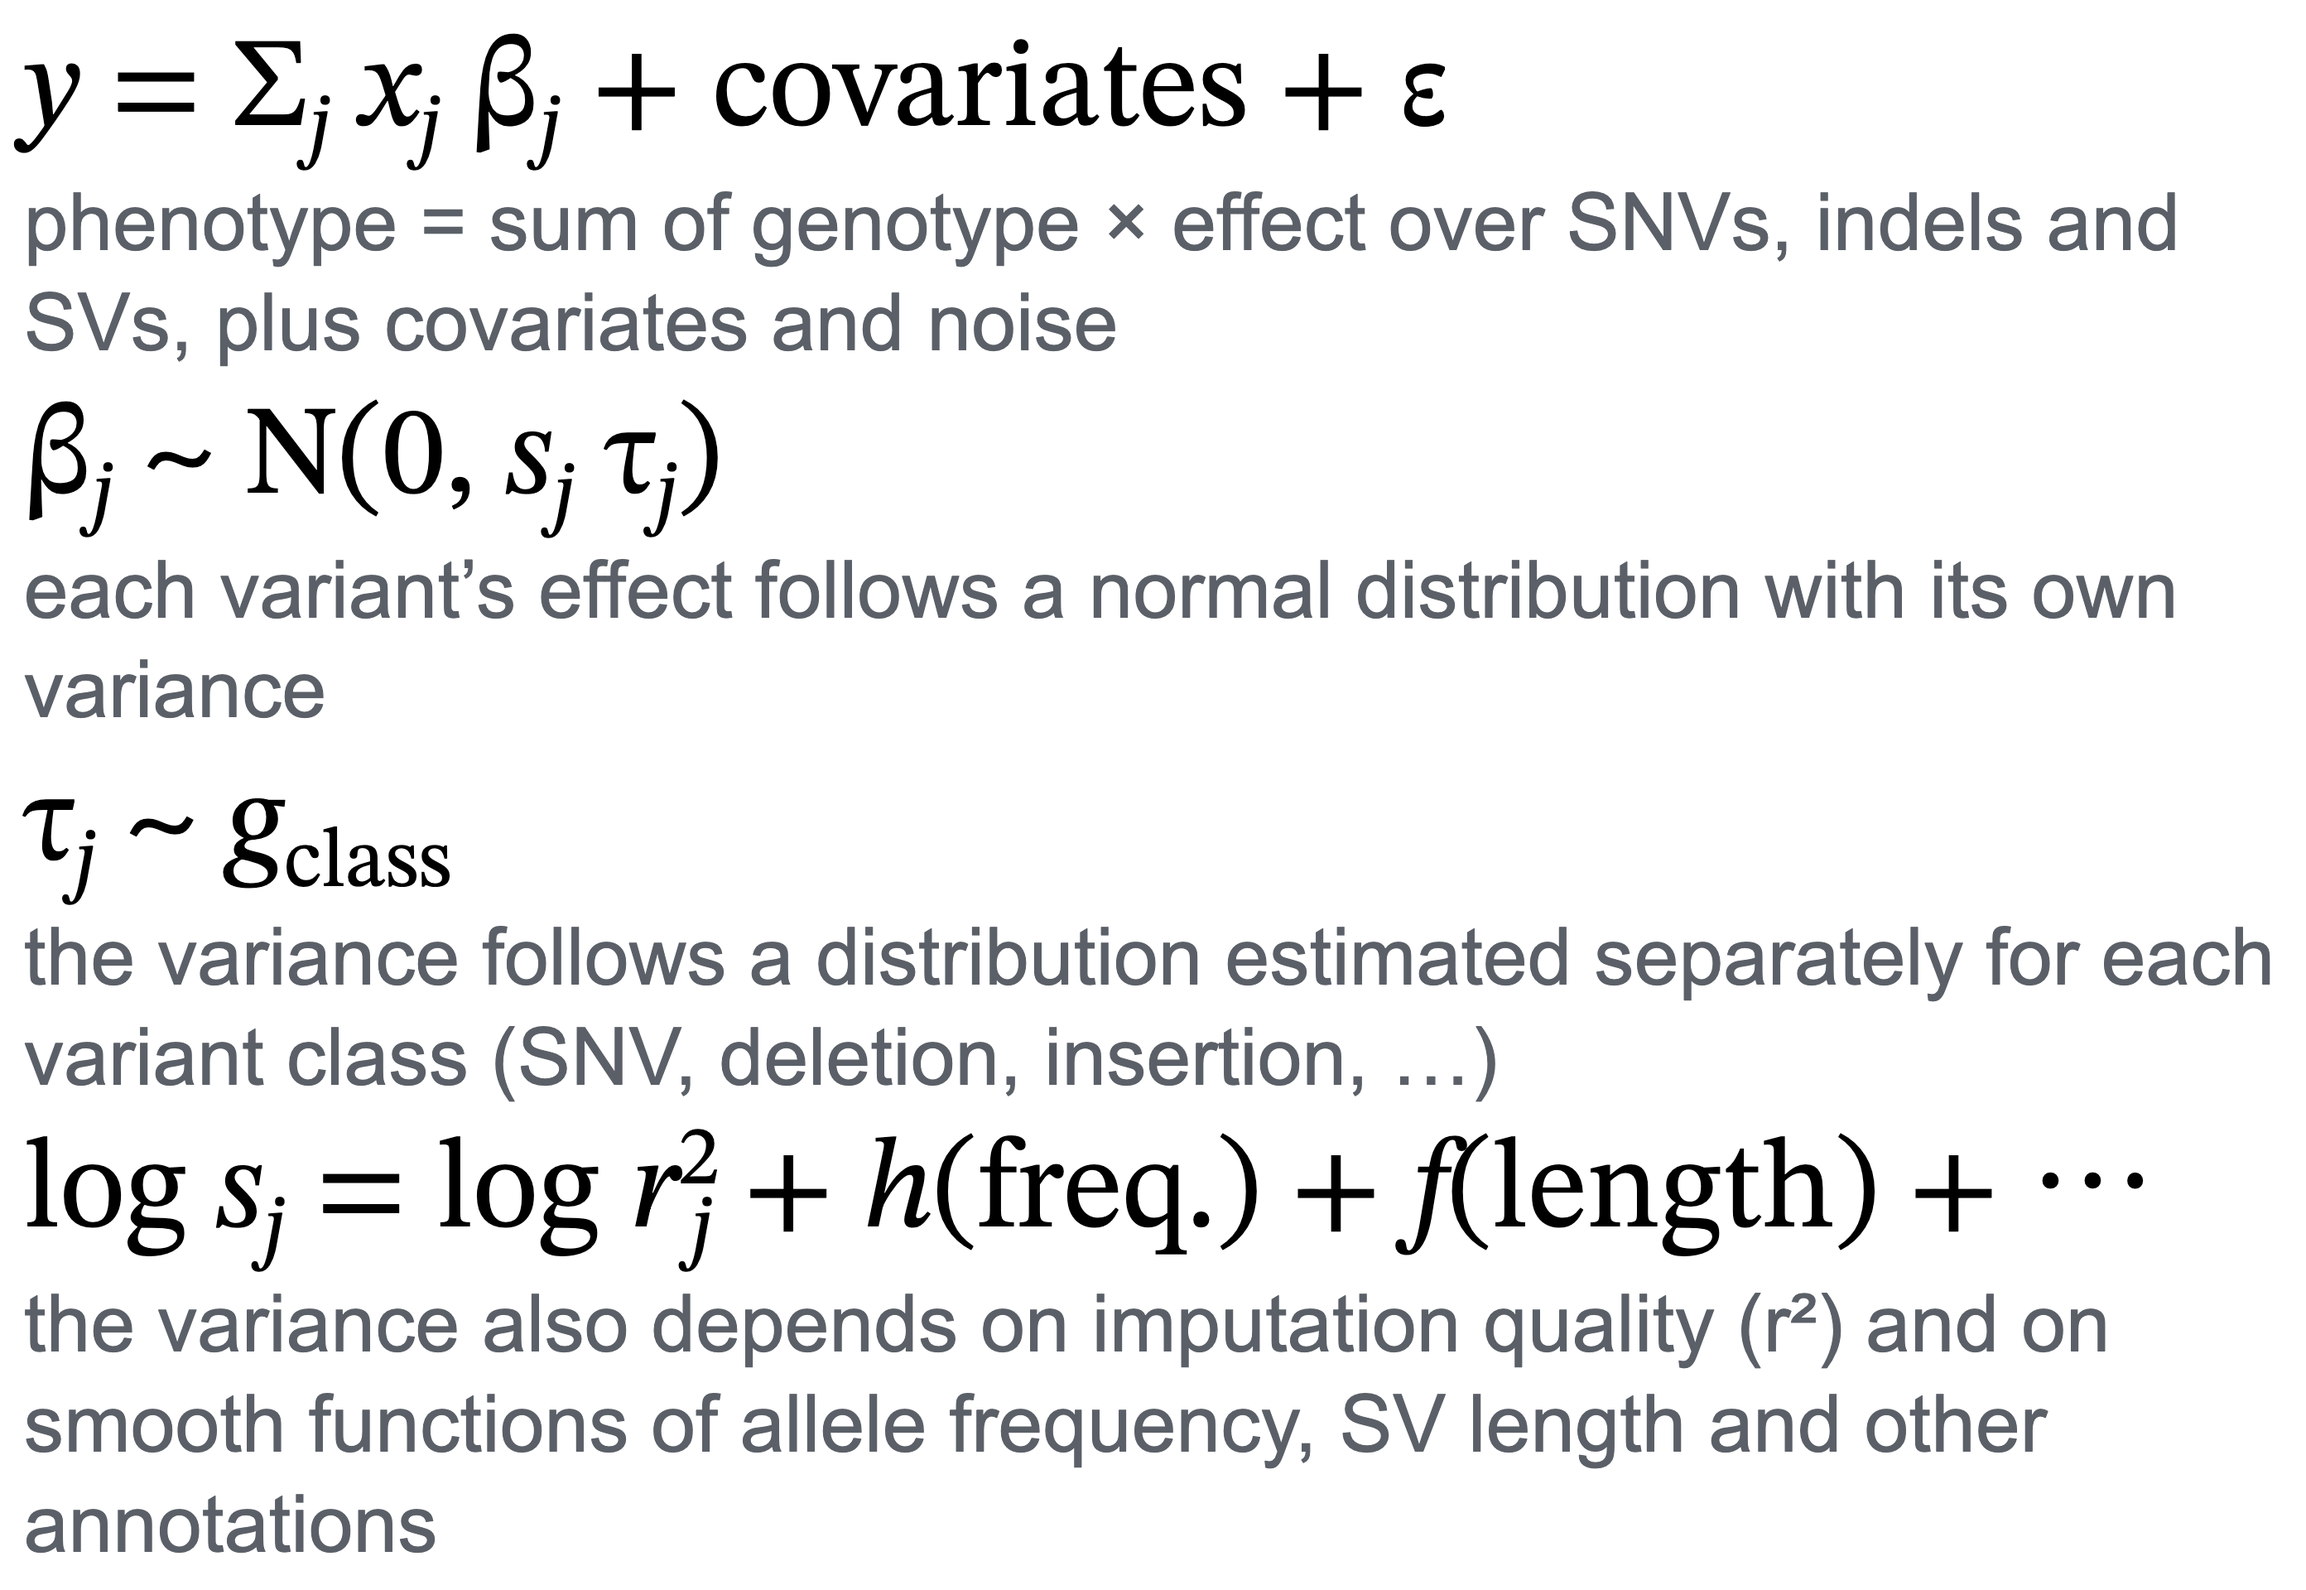
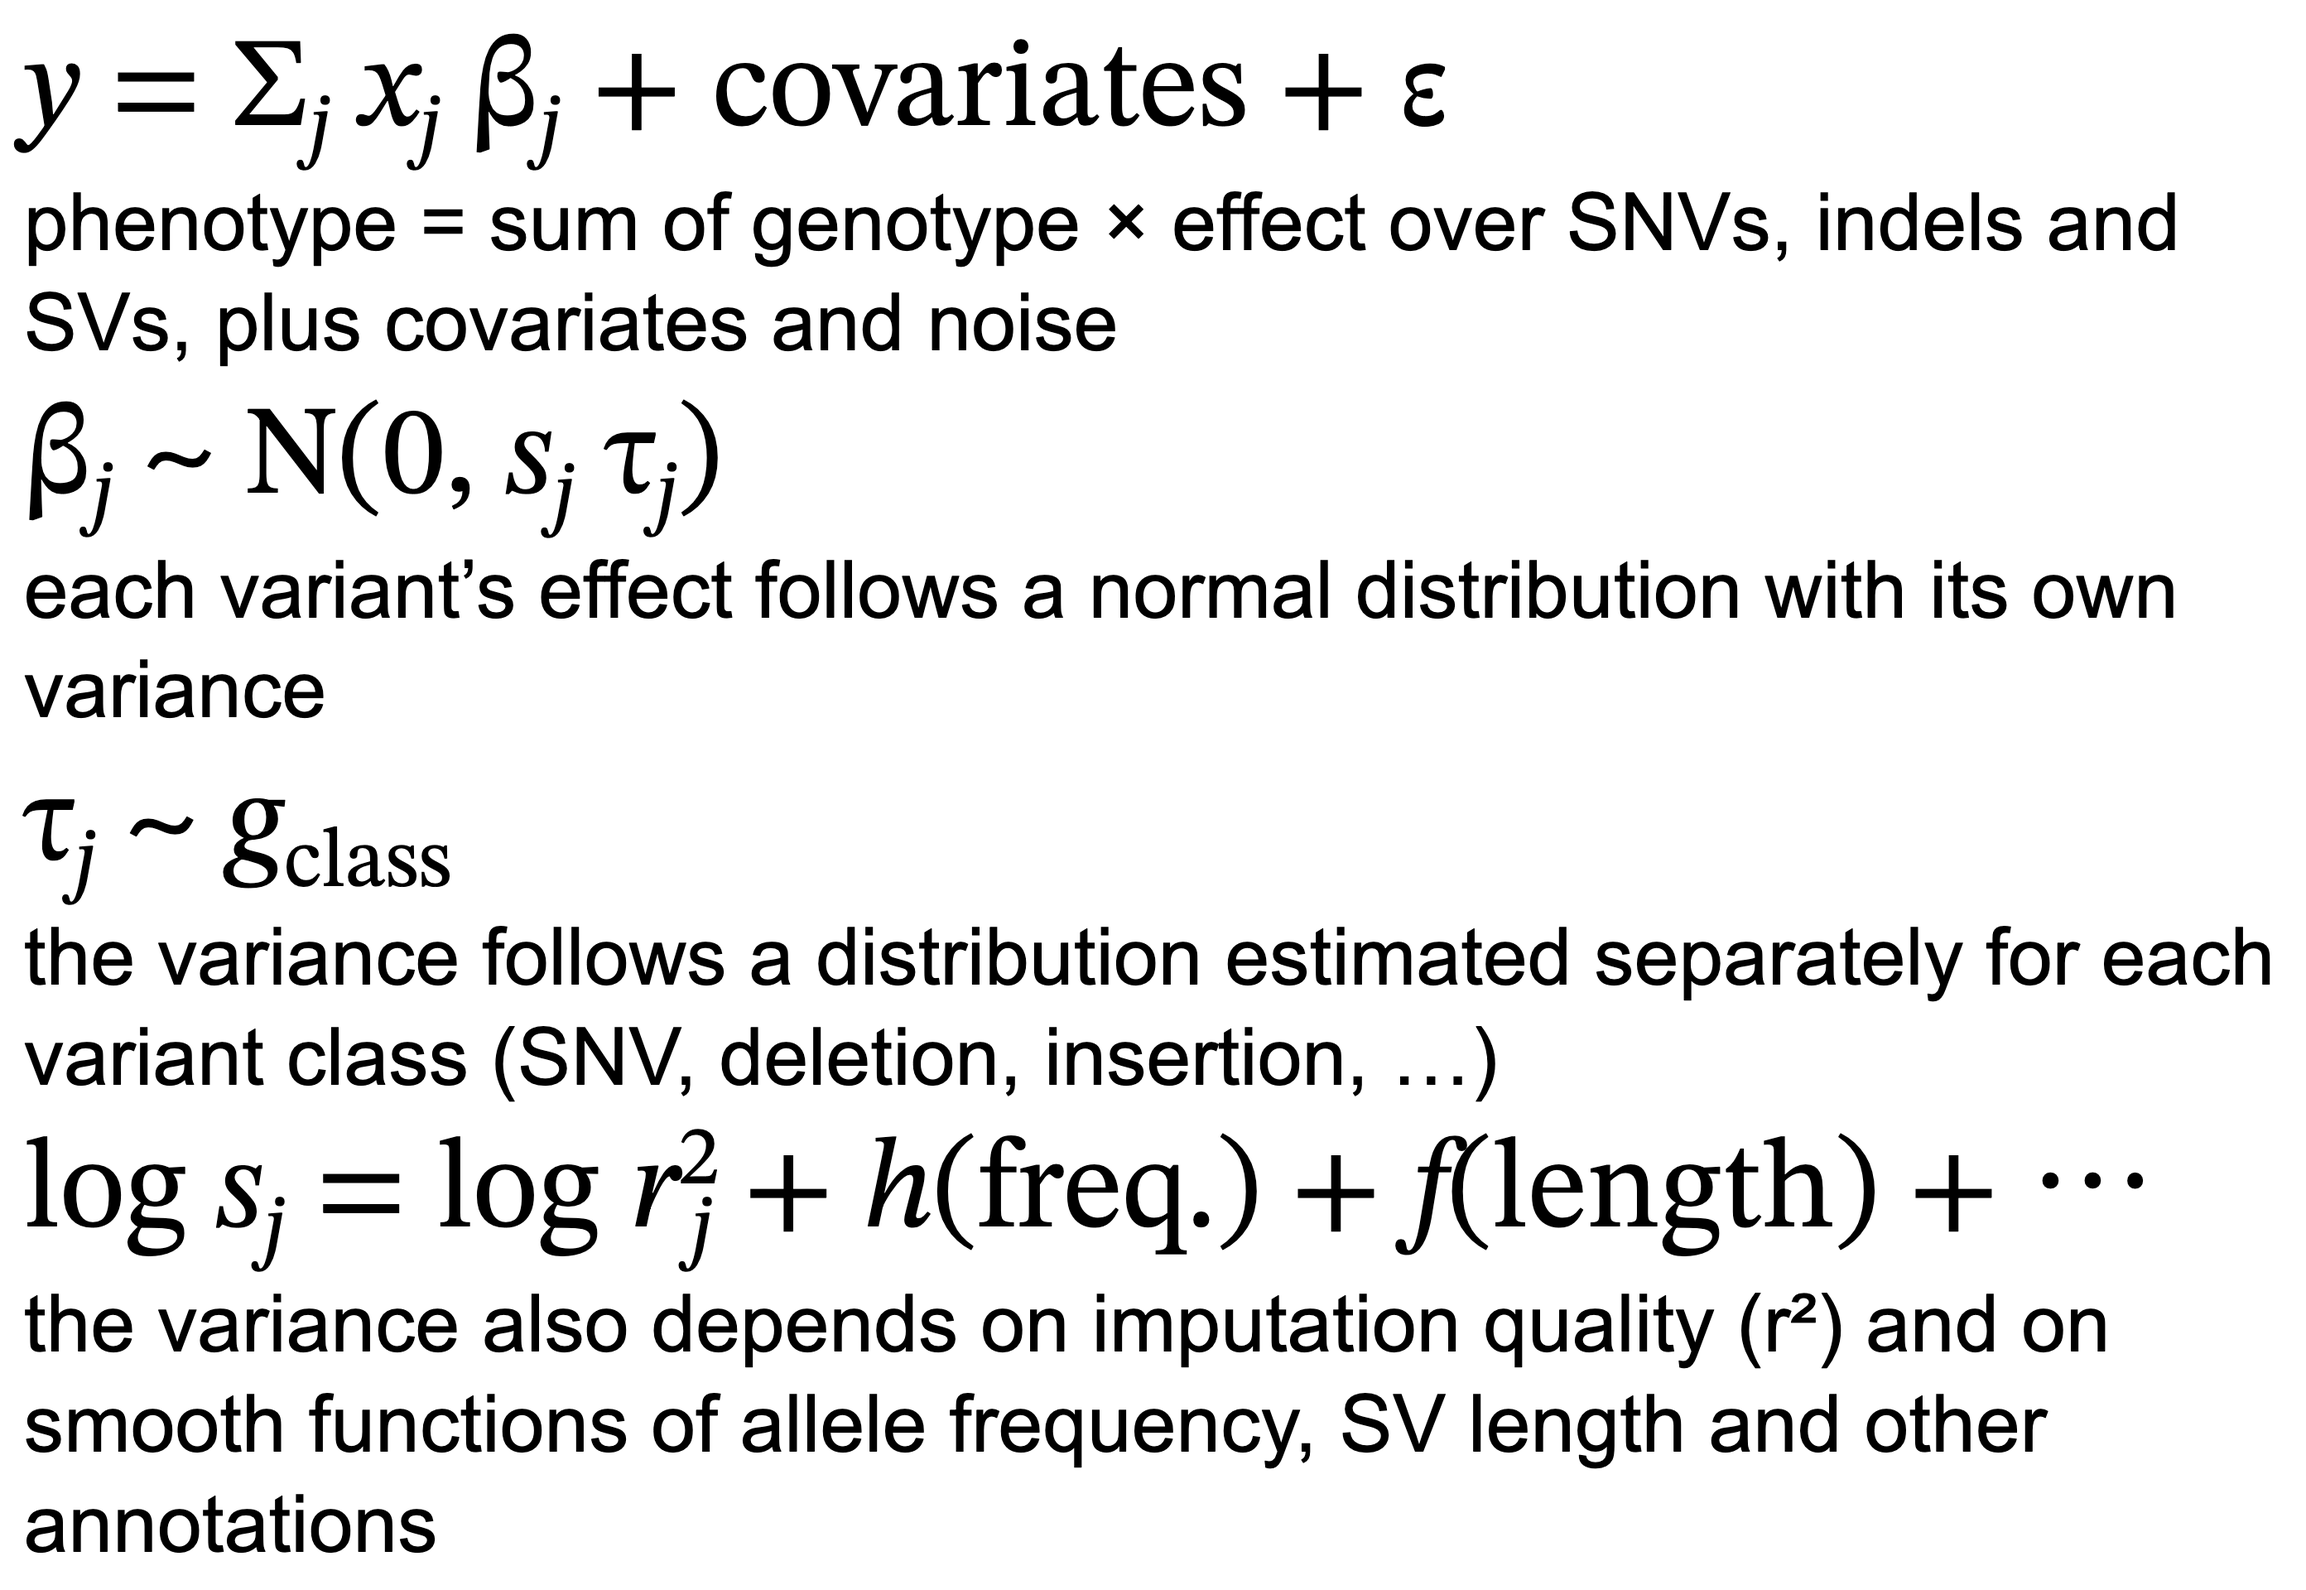
poster: one text size (49 pt) and black for all text outside the header, bars and figures; section bars all 60 pt; references in short form

diff --git a/docs/poster/ashg2026/build_pptx.py b/docs/poster/ashg2026/build_pptx.py
@@ -29,7 +29,7 @@ TEMPLATE = Path(sys.argv[1]) if len(sys.argv) > 1 else Path.home() / "Downloads"
 OUTPUT = Path(sys.argv[2]) if len(sys.argv) > 2 else Path.home() / "Downloads" / "ASHG SV-PGS poster.pptx"
 SKILL = Path.home() / ".claude/skills/synced/cf317dd8-fe6e-4d5f-8d52-41758c24f59e_65ab35e1-5c99-4c20-a531-f6c547fa9553/pptx"
 EMU = 914400
-PLACEHOLDER = "C0392B"
+PLACEHOLDER = "000000"
 
 # ------------------------------------------------------------------ the copy, from the abstract
 
@@ -68,15 +68,15 @@ DISCUSSION = [
 ]
 
 REFERENCES = [
-    "All of Us Research Program Investigators (2019) The “All of Us” Research Program. New England Journal of Medicine, 381, 668–676.",
-    "Byrska-Bishop, M. et al. (2022) High-coverage whole-genome sequencing of the expanded 1000 Genomes Project cohort including 602 trios. Cell, 185(18), 3426–3440.",
-    "Taylor, D. J. et al. (2024) Sources of gene expression variation in a globally diverse human cohort. Nature, 631, 610–616.",
+    "All of Us Research Program Investigators (2019) N Engl J Med 381:668.",
+    "Byrska-Bishop et al. (2022) Cell 185:3426.",
+    "Taylor et al. (2024) Nature 631:610.",
 ]
 
 CAPTIONS = {
-    112: "SV effects on hypertension risk",
-    113: "SV effect size by length",
-    114: "Exonic deletions lowered expression of the affected gene; exonic insertions and duplications raised it (MAGE RNA-seq, 1000 Genomes SVs; permutation p < 0.001).",
+    112: "SV effects on hypertension",
+    113: "Effect vs. length",
+    114: "Exonic deletions lowered expression of the affected gene; exonic insertions and duplications raised it (MAGE, 1000 Genomes; p < 0.001).",
     117: "Held-out accuracy across 15 diseases",
 }
 
@@ -109,7 +109,7 @@ def bullet(runs: list[tuple[str, str]], size: int = 4900, after: int = 600) -> s
     )
 
 
-def heading(text: str, size: int = 5400) -> str:
+def heading(text: str, size: int = 4900) -> str:
     return (
         '<a:p><a:pPr marL="0" marR="0" lvl="0" indent="0" algn="l" rtl="0"><a:lnSpc><a:spcPct val="90000"/></a:lnSpc>'
         '<a:spcBef><a:spcPts val="600"/></a:spcBef><a:spcAft><a:spcPts val="600"/></a:spcAft><a:buNone/></a:pPr>'
@@ -128,10 +128,10 @@ def line(runs: list[tuple[str, str]], size: int, colour: str, after: int = 0, sp
 
 
 def caption(text: str) -> str:
-    # the template's caption: 38 pt italic, dark text
+    # the template's caption style (italic, dark text), at the poster's one text size
     return (
         '<a:p><a:pPr marL="0" lvl="0" indent="0" algn="l" rtl="0"><a:spcBef><a:spcPts val="0"/></a:spcBef><a:spcAft><a:spcPts val="0"/></a:spcAft><a:buNone/></a:pPr>'
-        f'<a:r><a:rPr lang="en-US" sz="3800" i="1"><a:solidFill><a:schemeClr val="dk1"/></a:solidFill>{FONT}</a:rPr><a:t>{escape(text, quote=False)}</a:t></a:r></a:p>'
+        f'<a:r><a:rPr lang="en-US" sz="4900" i="1"><a:solidFill><a:srgbClr val="000000"/></a:solidFill>{FONT}</a:rPr><a:t>{escape(text, quote=False)}</a:t></a:r></a:p>'
     )
 
 
@@ -281,28 +281,34 @@ def build() -> None:
     xml = move(xml, 101, 13.61, 12.2, 10.94, 8.40)
     xml = picture(xml, 106, ids["length"])
     xml = move(xml, 106, 24.75, 12.2, 6.96, 8.40)
-    xml = move(xml, 112, 13.61, 20.6, 10.94, 0.92)
-    xml = move(xml, 113, 24.75, 20.6, 6.96, 0.92)
+    xml = move(xml, 112, 13.61, 20.6, 10.94, 1.0)
+    xml = move(xml, 113, 24.75, 20.6, 6.96, 1.0)
     xml = duplicate(xml, 94, 115, "Results continued")
     xml = replace_text(xml, 115, body(RESULTS_BOTTOM))
-    xml = move(xml, 115, 13.35, 21.7, 18.71, 3.0)
+    xml = move(xml, 115, 13.35, 21.85, 18.71, 3.0)
     xml = duplicate(xml, 106, 116, "15 diseases placeholder")
     xml = picture(xml, 116, ids["diseases"])
     xml = move(xml, 116, 13.61, 25.0, 18.20, 8.60)
     xml = duplicate(xml, 113, 117, "15 diseases caption")
-    xml = move(xml, 117, 13.61, 33.6, 18.20, 0.92)
+    xml = move(xml, 117, 13.61, 33.6, 18.20, 1.0)
 
     # column 3: the public-data figure, discussion, references
     xml = picture(xml, 107, ids["skew"])
     xml = move(xml, 107, 32.24, 6.11, 15.64, 11.76)
     for shape_id, text in CAPTIONS.items():
         xml = replace_text(xml, shape_id, caption(text))
-    xml = move(xml, 114, 32.25, 17.87, 15.64, 2.1)
-    xml = move(xml, 95, 32.25, 20.3, 15.73, 0.89)
+    xml = move(xml, 114, 32.25, 17.87, 15.64, 2.6)
+    xml = move(xml, 95, 32.25, 20.85, 15.73, 0.89)
     xml = replace_text(xml, 109, body(DISCUSSION))
-    xml = move(xml, 109, 32.25, 21.35, 15.64, 10.3)
-    xml = replace_text(xml, 99, "".join(line([(reference, "")], 2000, "000000", after=500, spacing=85000) for reference in REFERENCES))
+    xml = move(xml, 109, 32.25, 21.9, 15.64, 7.0)
+    xml = move(xml, 96, 32.16, 29.5, 15.73, 0.86)
+    xml = replace_text(xml, 99, "".join(line([(reference, "")], 4900, "000000", after=300, spacing=90000) for reference in REFERENCES))
+    xml = move(xml, 99, 32.17, 30.45, 15.73, 5.0)
 
+    # the section bars all at the template's 60 pt (its References bar was set smaller)
+    for bar in (91, 93, 95, 96, 97):
+        start, end = shape_span(xml, bar)
+        xml = xml[:start] + re.sub(r'sz="\d+"', 'sz="6000"', xml[start:end]) + xml[end:]
     # one sans-serif face throughout, which PowerPoint and LibreOffice (as metric-identical Liberation Sans) set alike
     xml = xml.replace('typeface="Century Schoolbook"', 'typeface="Arial"').replace('typeface="Merriweather"', 'typeface="Arial"')
     # the comment anchor in the slide's extensions, and every relationship the new slide no longer references (the old

diff --git a/docs/poster/ashg2026/figures.py b/docs/poster/ashg2026/figures.py
@@ -227,7 +227,7 @@ def equation_figure() -> Path:
         "<style>html,body{margin:0;background:transparent;}"
         f".rows{{width:{width * 96:.1f}px;height:{height * 96:.1f}px;box-sizing:border-box;padding:0.08in 0.12in;display:flex;flex-direction:column;justify-content:space-between;}}"
         ".math{font-family:'STIX Two Text','Times New Roman',serif;font-size:46pt;line-height:1.2;color:#000;white-space:nowrap;}"
-        f".plain{{font-family:Arial,Helvetica,sans-serif;font-size:29pt;line-height:1.25;color:{GREY};margin-top:2px;}}"
+        f".plain{{font-family:Arial,Helvetica,sans-serif;font-size:29pt;line-height:1.25;color:#000;margin-top:2px;}}"
         "sub,sup{font-size:0.66em;line-height:0;}</style></head>"
         f"<body><div class='rows'>{body}</div></body></html>"
     )
